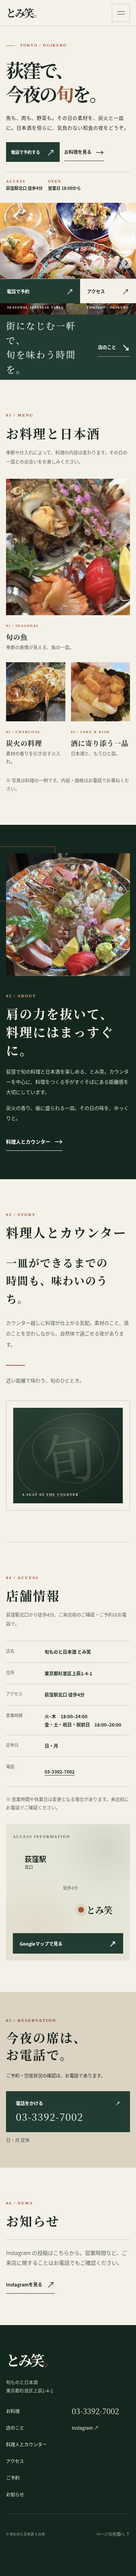
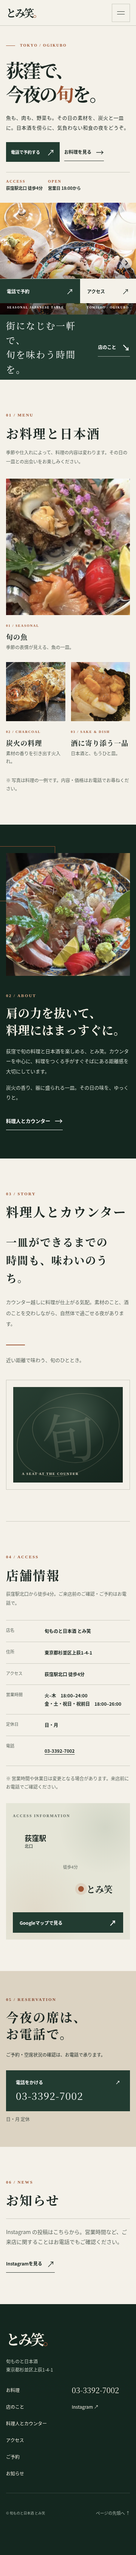
Balance About heading across viewports

diff --git a/styles.css b/styles.css
@@ -515,6 +515,7 @@ h1 span {
 }
 .about-copy h2 {
   margin-bottom: 36px;
+  letter-spacing: 0.02em;
 }
 .about-copy > p:not(.section-index) {
   font-size: 14px;
@@ -988,6 +989,9 @@ h1 span {
   .about-image {
     height: 450px;
   }
+  .about-copy h2 {
+    font-size: 31px;
+  }
   .story-layout {
     gap: 55px;
   }
@@ -1115,6 +1119,9 @@ h1 span {
   .about-copy h2,
   .reservation-section h2 {
     font-size: 33px;
+  }
+  .about-copy h2 {
+    font-size: 31px;
   }
   .section-description {
     margin-top: 15px;
